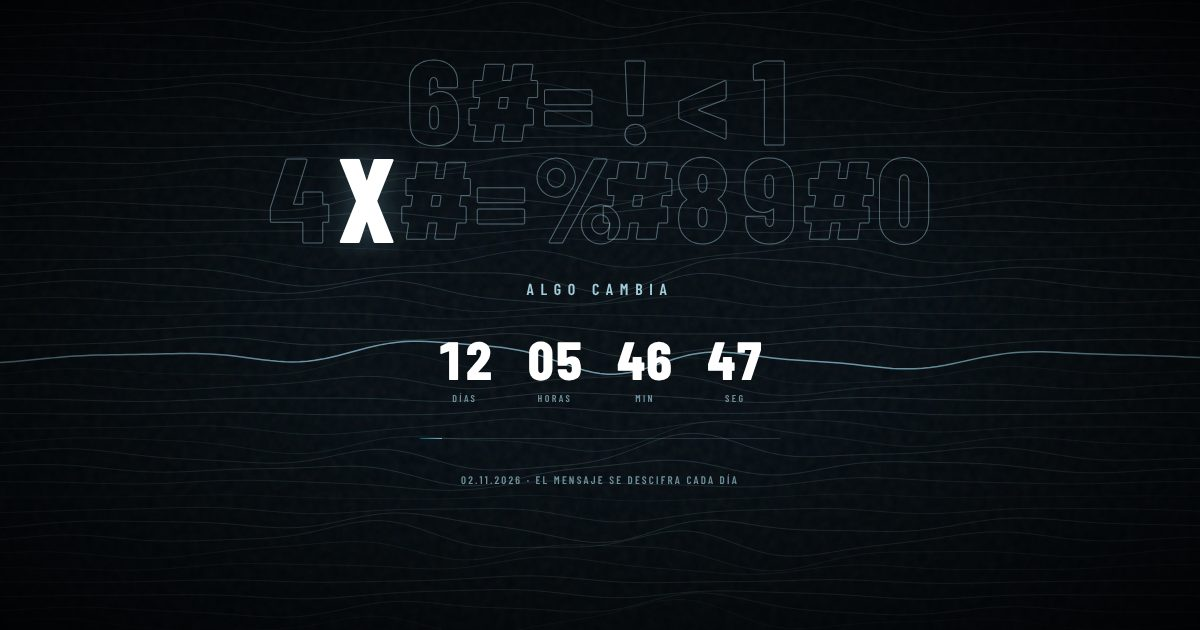
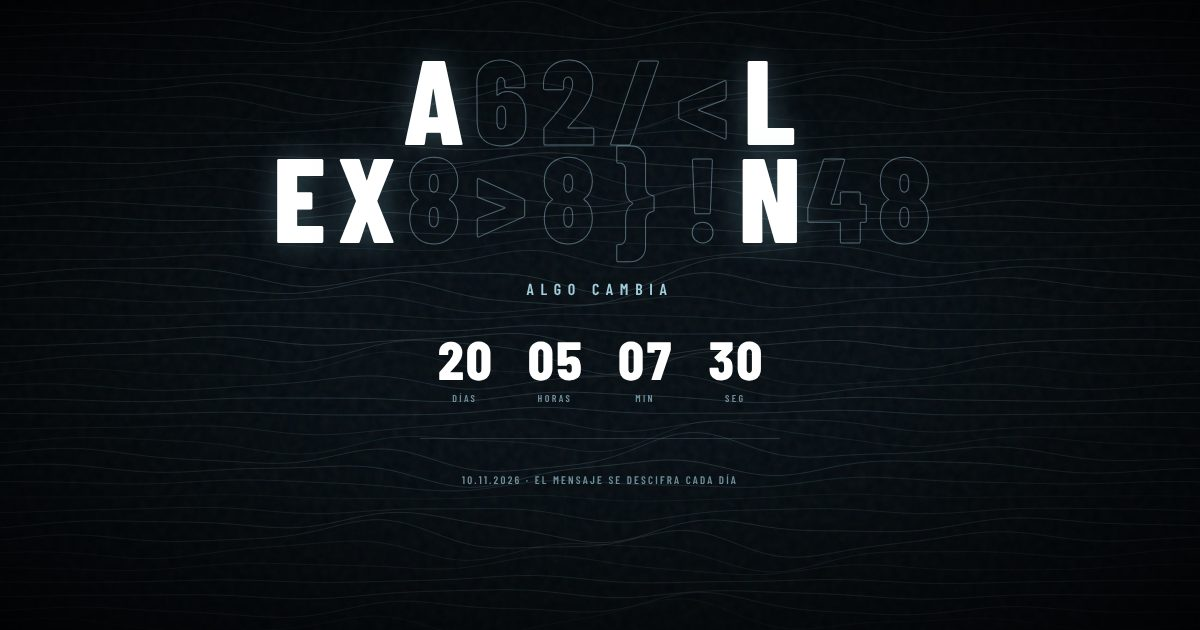
Teaser: descifrado del 1/11 (10:00) al 10/11 y cuenta atrás al 10/11, sin mensaje final
Claude-Session: https://claude.ai/code/session_01LkmqU7RBbe19AEQWfzDN2p

diff --git a/index.html b/index.html
@@ -8,7 +8,7 @@
        Fechas y enlaces editables en el bloque CONFIG del <script> final.
        ═════════════════════════════════════════════════════════════════════ -->
   <title>Astral Experience</title>
-  <meta name="description" content="Astral Experience. Algo cambia el 02.11.2026.">
+  <meta name="description" content="Astral Experience. Algo cambia. 10.11.2026.">
   <link rel="canonical" href="https://www.astralexperience.com/">
   <meta name="theme-color" content="#000000">
   <meta name="color-scheme" content="dark">
@@ -16,7 +16,7 @@
   <meta property="og:locale" content="es_ES">
   <meta property="og:site_name" content="Astral Experience">
   <meta property="og:url" content="https://www.astralexperience.com/">
-  <meta property="og:title" content="Astral Experience · 02.11.2026">
+  <meta property="og:title" content="Astral Experience · 10.11.2026">
   <meta property="og:description" content="Algo cambia.">
   <meta property="og:image" content="https://www.astralexperience.com/assets/teaser/og-teaser.jpg">
   <meta property="og:image:width" content="1200">
@@ -94,7 +94,7 @@
         <div><b data-s>00</b><small>SEG</small></div>
       </div>
       <div class="progress" aria-hidden="true"><i data-bar></i></div>
-      <p class="note" data-note>02.11.2026 · EL MENSAJE SE DESCIFRA CADA DÍA</p>
+      <p class="note" data-note>10.11.2026 · EL MENSAJE SE DESCIFRA CADA DÍA</p>
       <div class="cta">
         <a class="btn primary" href="https://www.instagram.com/astralexperience" target="_blank" rel="noopener"><svg class="ico" viewBox="0 0 24 24" aria-hidden="true"><path d="M7.0301.084c-1.2768.0602-2.1487.264-2.911.5634-.7888.3075-1.4575.72-2.1228 1.3877-.6652.6677-1.075 1.3368-1.3802 2.127-.2954.7638-.4956 1.6365-.552 2.914-.0564 1.2775-.0689 1.6882-.0626 4.947.0062 3.2586.0206 3.6671.0825 4.9473.061 1.2765.264 2.1482.5635 2.9107.308.7889.72 1.4573 1.388 2.1228.6679.6655 1.3365 1.0743 2.1285 1.38.7632.295 1.6361.4961 2.9134.552 1.2773.056 1.6884.069 4.9462.0627 3.2578-.0062 3.668-.0207 4.9478-.0814 1.28-.0607 2.147-.2652 2.9098-.5633.7889-.3086 1.4578-.72 2.1228-1.3881.665-.6682 1.0745-1.3378 1.3795-2.1284.2957-.7632.4966-1.636.552-2.9124.056-1.2809.0692-1.6898.063-4.948-.0063-3.2583-.021-3.6668-.0817-4.9465-.0607-1.2797-.264-2.1487-.5633-2.9117-.3084-.7889-.72-1.4568-1.3876-2.1228C21.2982 1.33 20.628.9208 19.8378.6165 19.074.321 18.2017.1197 16.9244.0645 15.6471.0093 15.236-.005 11.977.0014 8.718.0076 8.31.0215 7.0301.0839m.1402 21.6932c-1.17-.0509-1.8053-.2453-2.2287-.408-.5606-.216-.96-.4771-1.3819-.895-.422-.4178-.6811-.8186-.9-1.378-.1644-.4234-.3624-1.058-.4171-2.228-.0595-1.2645-.072-1.6442-.079-4.848-.007-3.2037.0053-3.583.0607-4.848.05-1.169.2456-1.805.408-2.2282.216-.5613.4762-.96.895-1.3816.4188-.4217.8184-.6814 1.3783-.9003.423-.1651 1.0575-.3614 2.227-.4171 1.2655-.06 1.6447-.072 4.848-.079 3.2033-.007 3.5835.005 4.8495.0608 1.169.0508 1.8053.2445 2.228.408.5608.216.96.4754 1.3816.895.4217.4194.6816.8176.9005 1.3787.1653.4217.3617 1.056.4169 2.2263.0602 1.2655.0739 1.645.0796 4.848.0058 3.203-.0055 3.5834-.061 4.848-.051 1.17-.245 1.8055-.408 2.2294-.216.5604-.4763.96-.8954 1.3814-.419.4215-.8181.6811-1.3783.9-.4224.1649-1.0577.3617-2.2262.4174-1.2656.0595-1.6448.072-4.8493.079-3.2045.007-3.5825-.006-4.848-.0608M16.953 5.5864A1.44 1.44 0 1 0 18.39 4.144a1.44 1.44 0 0 0-1.437 1.4424M5.8385 12.012c.0067 3.4032 2.7706 6.1557 6.173 6.1493 3.4026-.0065 6.157-2.7701 6.1506-6.1733-.0065-3.4032-2.771-6.1565-6.174-6.1498-3.403.0067-6.156 2.771-6.1496 6.1738M8 12.0077a4 4 0 1 1 4.008 3.9921A3.9996 3.9996 0 0 1 8 12.0077"/></svg>SÍGUENOS EN INSTAGRAM ↗</a>
         <a class="btn" href="https://open.spotify.com/artist/5CzccUc35KuvkdlFZDBaW0" target="_blank" rel="noopener"><svg class="ico" viewBox="0 0 24 24" aria-hidden="true"><path d="M12 0C5.4 0 0 5.4 0 12s5.4 12 12 12 12-5.4 12-12S18.66 0 12 0zm5.521 17.34c-.24.359-.66.48-1.021.24-2.82-1.74-6.36-2.101-10.561-1.141-.418.122-.779-.179-.899-.539-.12-.421.18-.78.54-.9 4.56-1.021 8.52-.6 11.64 1.32.42.18.479.659.301 1.02zm1.44-3.3c-.301.42-.841.6-1.262.3-3.239-1.98-8.159-2.58-11.939-1.38-.479.12-1.02-.12-1.14-.6-.12-.48.12-1.021.6-1.141C9.6 9.9 15 10.561 18.72 12.84c.361.181.54.78.241 1.2zm.12-3.36C15.24 8.4 8.82 8.16 5.16 9.301c-.6.179-1.2-.181-1.38-.721-.18-.601.18-1.2.72-1.381 4.26-1.26 11.28-1.02 15.721 1.621.539.3.719 1.02.419 1.56-.299.421-1.02.599-1.559.3z"/></svg>SPOTIFY ↗</a>
@@ -111,11 +111,11 @@
   <script>
   (() => {
     /* ═══════════════ CONFIG (editable) ═══════════════
-       START: cuándo empieza a descifrarse el nombre (0 %).
-       END:   el día del cambio (100 %): a esa hora el nombre queda completo
-              y el aviso pasa a "YA ESTÁ AQUÍ".                              */
-    const START = new Date('2026-10-20T00:00:00+02:00');
-    const END   = new Date('2026-11-02T00:00:00+01:00');
+       START: cuándo empieza a descifrarse el nombre (0 %): sale online el 1/11 a las 10:00.
+       END:   final de la cuenta atrás y nombre completo (100 %): 10/11 (H4, web final).
+              Ajusta la hora cuando se fije la de H4.                          */
+    const START = new Date('2026-11-01T10:00:00+01:00');
+    const END   = new Date('2026-11-10T00:00:00+01:00');
     /* ═════════════════════════════════════════════════ */
 
     const $ = (s) => document.querySelector(s);
@@ -156,12 +156,6 @@
       const m = Math.floor(left / 6e4); left -= m * 6e4;
       $('[data-d]').textContent = pad(d); $('[data-h]').textContent = pad(h);
       $('[data-m]').textContent = pad(m); $('[data-s]').textContent = pad(Math.floor(left / 1e3));
-      if (progress >= 1) {
-        $('[data-count]').hidden = true;
-        $('[data-claim]').textContent = 'YA ESTÁ AQUÍ';
-        $('[data-note]').textContent = 'DESCÚBRELO EN INSTAGRAM';
-        $('[data-status]').textContent = 'SEÑAL ABIERTA';
-      }
     }
     tick(); setInterval(tick, reduced ? 1000 : 120);
     $('[data-year]').textContent = new Date().getFullYear();
